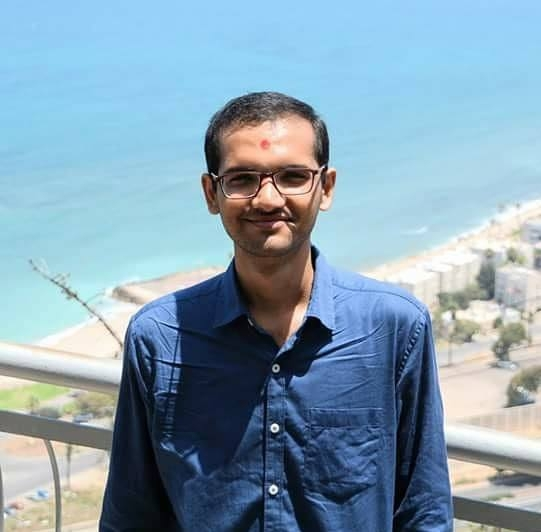
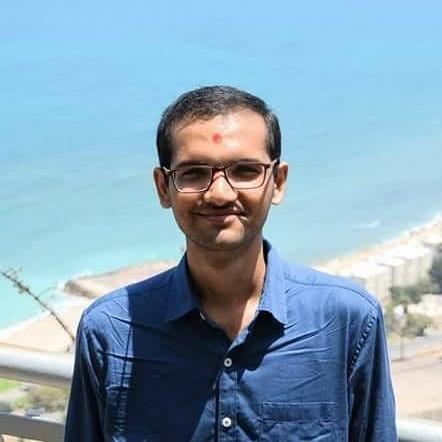
tensor-board.png

diff --git a/_posts/2018-04-01-TensorFlow-For-Beginner.md b/_posts/2018-04-01-TensorFlow-For-Beginner.md
@@ -2,14 +2,13 @@
 layout: post
 title:  "Getting started with TensorFlow and TensorBoard"
 date:   2018-04-01
+banner_image : tensor-board.png
 tags: [TensorFlow, Programming, Python, Beginner, Learning, Notebook]
 ---
 
-* In given Notebook [here](https://github.com/minesh1291/Learning-Python/blob/master/TensorFlow_Beginner/try0.ipynb) you will see 
+* In given Notebook [here](https://github.com/minesh1291/Learning-Python/blob/master/TensorFlow_Beginner/try0.ipynb) you will see
   * How to define constants for TensorFlow
   * How to create session
   * How to evaluate functions and print constants
   * How to do simple mathemetical calculations using placeholders
   * And in last but not least How to visualize graph using TensorBoard
-  
-
